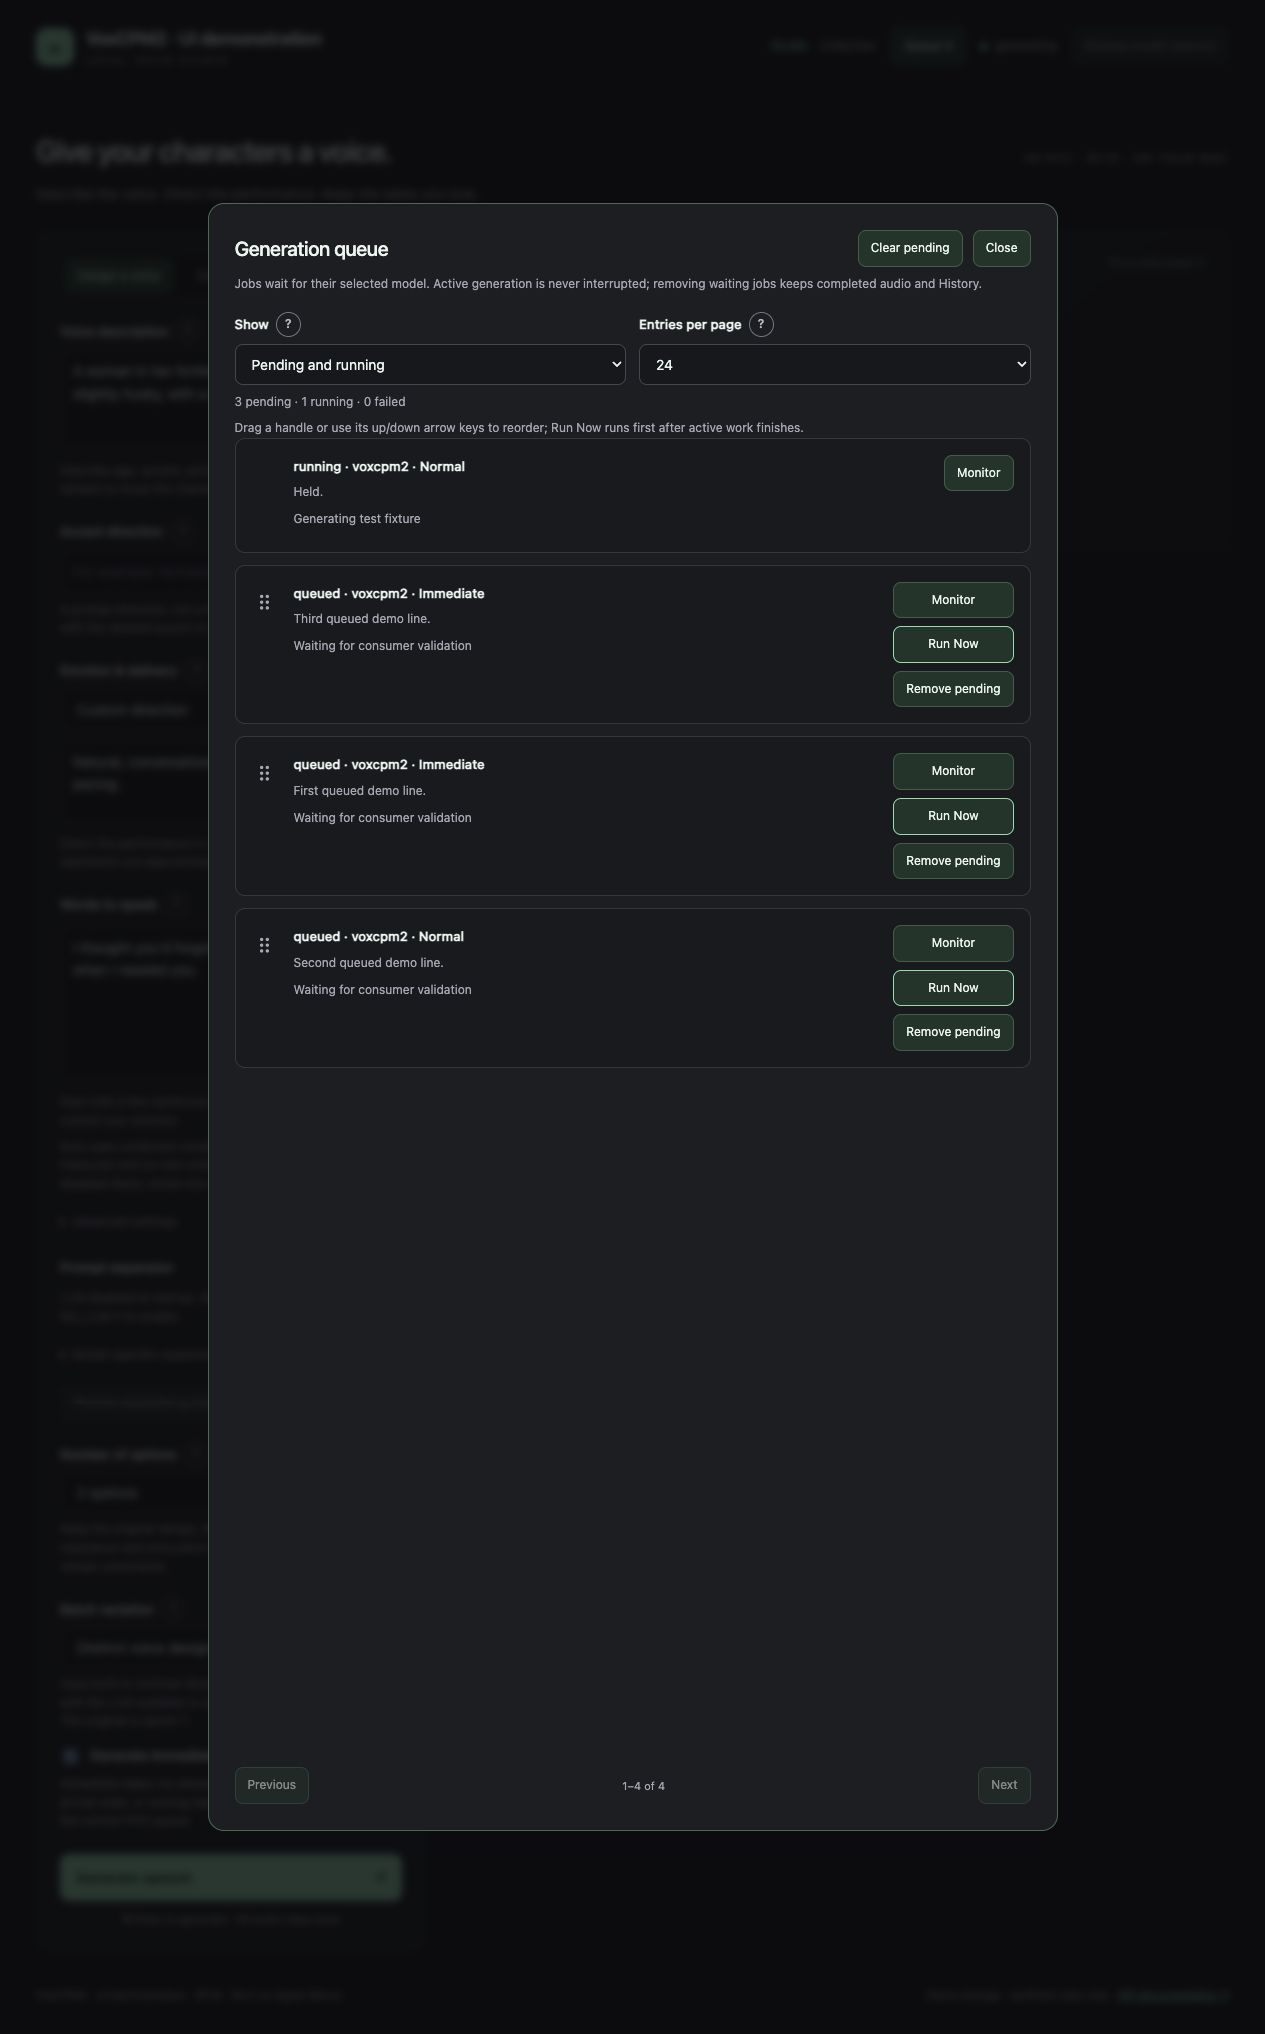
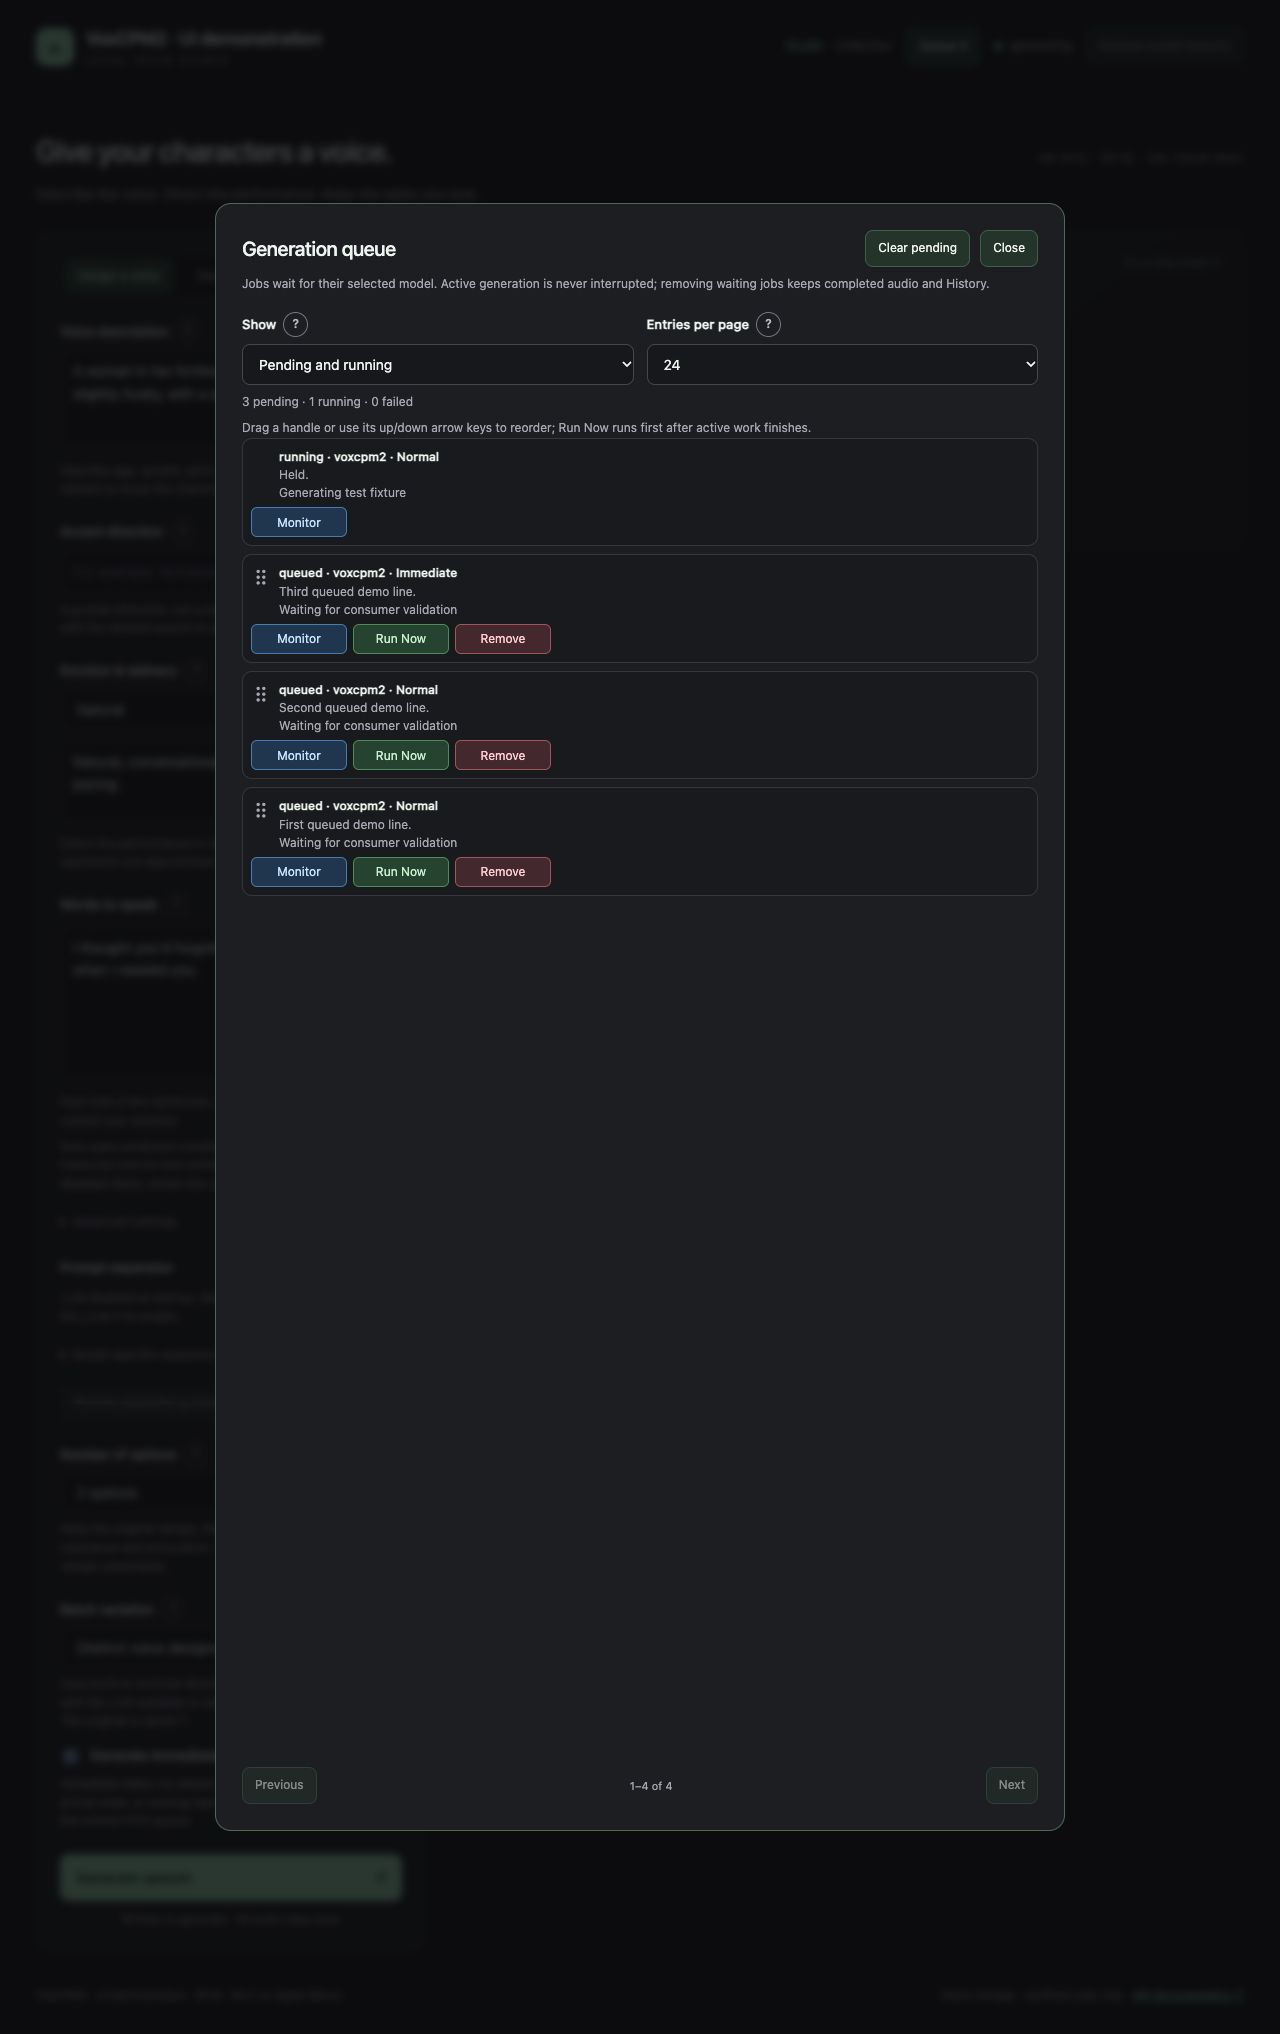
Compact queue cards and unify colored action buttons

diff --git a/ui/index.html b/ui/index.html
@@ -17,19 +17,27 @@ html[data-page="collection"] #cards{max-height:none;grid-template-columns:repeat
 .queue-dialog{width:min(850px,calc(100vw - 32px));height:80vh;max-height:80vh;height:80dvh;max-height:80dvh;margin:auto}
 .queue-dialog[open]{display:flex;flex-direction:column}
 .queue-dialog> :not(#queue-entries){flex-shrink:0}
-#queue-entries{flex:1;min-height:0;max-height:none;overflow-y:auto;overscroll-behavior:contain;align-content:start}
-.queue-entry{position:relative;display:grid;grid-template-columns:26px minmax(0,1fr) max-content;gap:16px;align-items:start}
-.queue-entry-content{min-width:0;overflow-wrap:anywhere}
-.queue-actions{margin:0;flex-direction:column;align-items:stretch;flex-wrap:nowrap}
-.queue-actions .secondary{width:100%;text-align:center;white-space:nowrap}
-.queue-drag-handle{border:0;border-radius:6px;background:transparent;color:var(--muted);font-size:24px;line-height:1;padding:8px 0;cursor:grab;touch-action:none;align-self:start}
+#queue-entries{flex:1;min-height:0;max-height:none;overflow-y:auto;overscroll-behavior:contain;align-content:start;gap:8px}
+.queue-entry{position:relative;display:grid;grid-template-columns:20px minmax(0,1fr);gap:6px 8px;align-items:start;padding:8px}
+.queue-entry-content{min-width:0;overflow-wrap:anywhere;line-height:1.3}
+.queue-entry-content strong{font-size:12px}
+.queue-entry-content p,.queue-entry-content .hint{margin:2px 0 0;line-height:1.35}
+.queue-entry-content .error{padding:6px}
+.queue-actions{grid-column:1 / -1;margin:0;gap:6px;flex-direction:row;align-items:center;justify-content:flex-start;flex-wrap:wrap}
+.queue-actions .secondary{display:inline-flex;align-items:center;justify-content:center;flex:0 0 96px;width:96px;height:30px;padding:0 4px;border-radius:6px;line-height:1.1;text-align:center}
+.queue-actions .queue-monitor{border-color:#497bb1;background:#20364e;color:#c6e3ff}
+.queue-actions .queue-monitor:hover:not(:disabled){background:#2c4969}
+.queue-actions .queue-run-now{border-color:#4c8b5d;background:#25432f;color:#c8f0d1}
+.queue-actions .queue-run-now:hover:not(:disabled){background:#345a40}
+.queue-actions .queue-remove{border-color:#a1545b;background:#43282e;color:#ffccd2}
+.queue-actions .queue-remove:hover:not(:disabled){background:#60353e}
+.queue-drag-handle{border:0;border-radius:6px;background:transparent;color:var(--muted);font-size:24px;line-height:1;padding:2px 0;cursor:grab;touch-action:none;align-self:start}
 .queue-drag-handle:hover,.queue-drag-handle:focus-visible{color:var(--accent);background:var(--sub)}
 .queue-dragging{user-select:none}.queue-dragging .queue-drag-handle{cursor:grabbing}.queue-moving{opacity:.5}
 .queue-entry[data-drop]:before{content:"";position:absolute;left:0;right:0;height:3px;border-radius:3px;background:var(--accent);pointer-events:none}
 .queue-entry[data-drop=before]:before{top:0}.queue-entry[data-drop=after]:before{bottom:0}
-.queue-run-now{border-color:var(--accent)}
 .queue-dialog .library-filters .help-label-row{margin-top:0}
-@media(max-width:720px){.queue-entry{gap:9px;grid-template-columns:24px minmax(0,1fr) max-content}.queue-entry .queue-actions .secondary{padding:8px}}
+@media(max-width:720px){.queue-actions .secondary{flex-basis:calc((100% - 12px) / 3);width:calc((100% - 12px) / 3);max-width:96px;font-size:11px}}
 
 .expansion-switch{display:flex;align-items:center;justify-content:space-between;gap:12px}.expansion-switch input{appearance:none;flex:none;width:42px;height:24px;padding:2px;border-radius:20px;background:var(--line);cursor:pointer}.expansion-switch input:before{content:"";display:block;width:18px;height:18px;border-radius:50%;background:var(--muted);transition:transform .15s}.expansion-switch input:checked{background:var(--accent);border-color:var(--accent)}.expansion-switch input:checked:before{transform:translateX(17px);background:#173321}.expansion-switch input:disabled{opacity:.5;cursor:default}@media(prefers-reduced-motion:reduce){.expansion-switch input:before{transition:none}}
 .expansion-details{margin-top:16px;padding:14px;border:1px solid var(--line);border-radius:9px;background:#191a1d}.expansion-details>summary{cursor:pointer;color:var(--accent);font-weight:550}.expanded-guidance{color:var(--muted);white-space:pre-wrap;overflow-wrap:anywhere;font-size:13px;line-height:1.65}.expansion-content details{font-size:12px;color:var(--muted)}

diff --git a/ui/app.js b/ui/app.js
@@ -439,12 +439,12 @@ async function refreshQueue(){
   if(row.error)content.append(el('p',row.error,'error'));
   const actions=el('div',null,'card-actions queue-actions');
   if(row.candidate_batch_id){const options=el('button','View all options','secondary');options.type='button';options.onclick=()=>{$('queue-dialog').close();watchCandidates(row.candidate_batch_id)};actions.append(options);}
-  const inspect=el('button',row.status==='done'?'Open take':'Monitor','secondary');inspect.type='button';inspect.onclick=()=>{$('queue-dialog').close();row.result?showResult(row.result):watch(row.id)};actions.append(inspect);
+  const inspect=el('button',row.status==='done'?'Open take':'Monitor','secondary queue-monitor');inspect.type='button';inspect.onclick=()=>{$('queue-dialog').close();row.result?showResult(row.result):watch(row.id)};actions.append(inspect);
   if(row.status==='queued'){
    const run=el('button','Run Now','secondary queue-run-now');run.type='button';run.disabled=!!row.paused;
    run.title=row.paused?row.stage:'Run next, ahead of other waiting jobs. The current take finishes first.';
    run.onclick=()=>changeQueueOrder(row.id,null,true);actions.append(run);
-   const remove=el('button','Remove pending','secondary');remove.type='button';remove.onclick=async()=>{try{await api('/api/queue/'+row.id,{method:'DELETE'});await refreshQueue()}catch(exc){error(exc.message)}};actions.append(remove);
+   const remove=el('button','Remove','secondary queue-remove');remove.type='button';remove.onclick=async()=>{try{await api('/api/queue/'+row.id,{method:'DELETE'});await refreshQueue()}catch(exc){error(exc.message)}};actions.append(remove);
   }
   if(row.status==='error'&&!row.paused&&row.backend===caps?.backend){const retry=el('button','Retry same entry','secondary');retry.type='button';retry.onclick=async()=>{try{const job=await post('/api/queue/'+row.id+'/retry',{});$('queue-dialog').close();watch(job.id);await refreshQueue()}catch(exc){error(exc.message)}};actions.append(retry)}
   card.append(content,actions);$('queue-entries').append(card);
